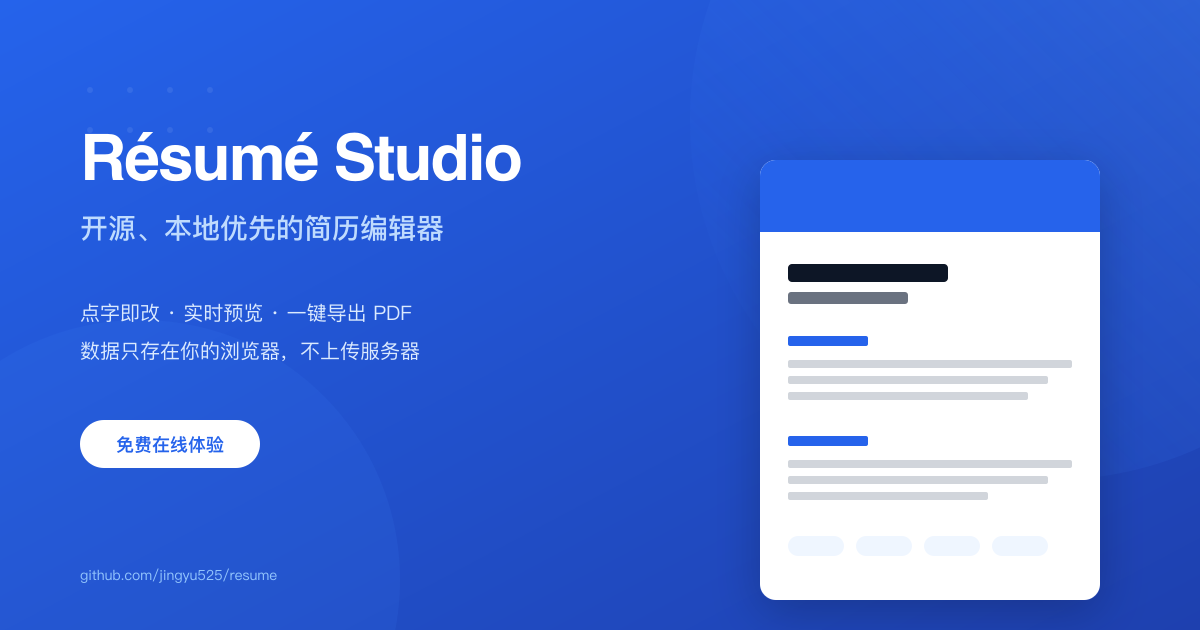
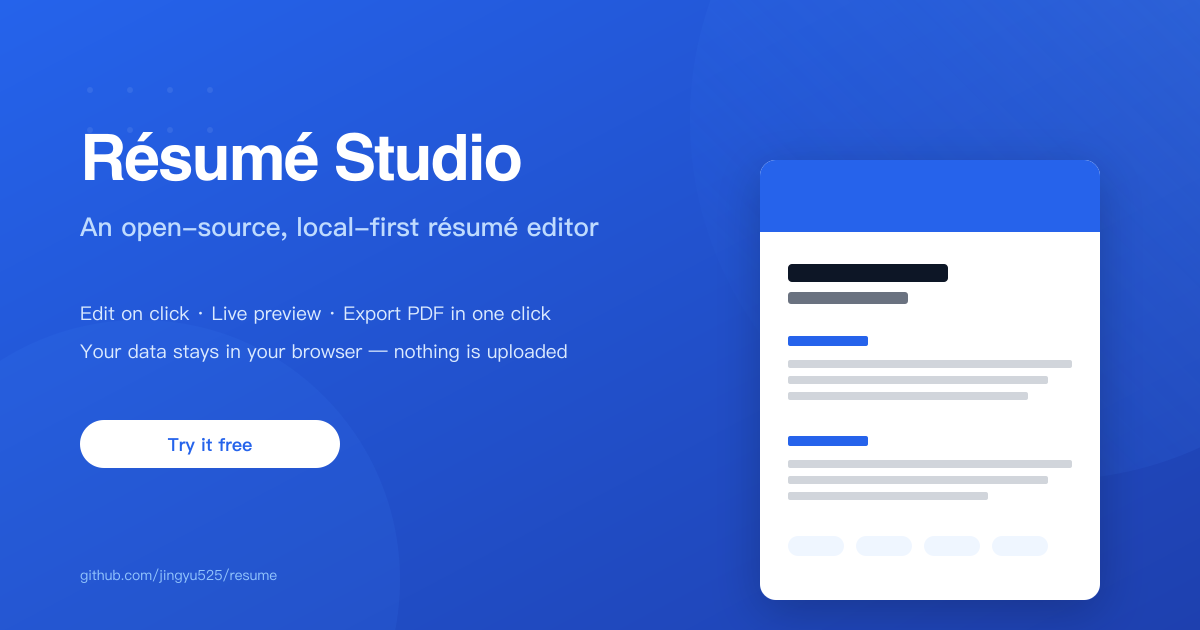
assets: 生成五语 OG 封面图并配到各语言 README
- 新增 og-cover.{zh,ja,de,ko}.svg/png，文案与对应语言 README 一致
- og-cover.svg/png 改为英文默认版
- 非英文 README 的预览图引用改为对应语言版本

diff --git a/README.ja.md b/README.ja.md
@@ -9,7 +9,7 @@
 [![Local-First](https://img.shields.io/badge/privacy-local--first-22c55e?style=for-the-badge)]()
 [![Open Source](https://img.shields.io/badge/open--source-source--available-6b7280?style=for-the-badge)]()
 
-![Résumé Studio プレビュー](./public/og-cover.png)
+![Résumé Studio プレビュー](./public/og-cover.ja.png)
 
 ## なぜ Résumé Studio なのか
 

diff --git a/README.zh.md b/README.zh.md
@@ -9,7 +9,7 @@
 [![本地优先](https://img.shields.io/badge/privacy-无上传%20·%20无账号-22c55e?style=for-the-badge)]()
 [![开源透明](https://img.shields.io/badge/open--source-代码公开-6b7280?style=for-the-badge)]()
 
-![Résumé Studio 预览](./public/og-cover.png)
+![Résumé Studio 预览](./public/og-cover.zh.png)
 
 ## 为什么是 Résumé Studio
 

diff --git a/README.ko.md b/README.ko.md
@@ -9,7 +9,7 @@
 [![Local-First](https://img.shields.io/badge/privacy-local--first-22c55e?style=for-the-badge)]()
 [![Open Source](https://img.shields.io/badge/open--source-source--available-6b7280?style=for-the-badge)]()
 
-![Résumé Studio 미리보기](./public/og-cover.png)
+![Résumé Studio 미리보기](./public/og-cover.ko.png)
 
 ## 왜 Résumé Studio인가
 

diff --git a/README.de.md b/README.de.md
@@ -9,7 +9,7 @@
 [![Local-First](https://img.shields.io/badge/privacy-local--first-22c55e?style=for-the-badge)]()
 [![Open Source](https://img.shields.io/badge/open--source-source--available-6b7280?style=for-the-badge)]()
 
-![Résumé Studio Vorschau](./public/og-cover.png)
+![Résumé Studio Vorschau](./public/og-cover.de.png)
 
 ## Warum Résumé Studio
 
